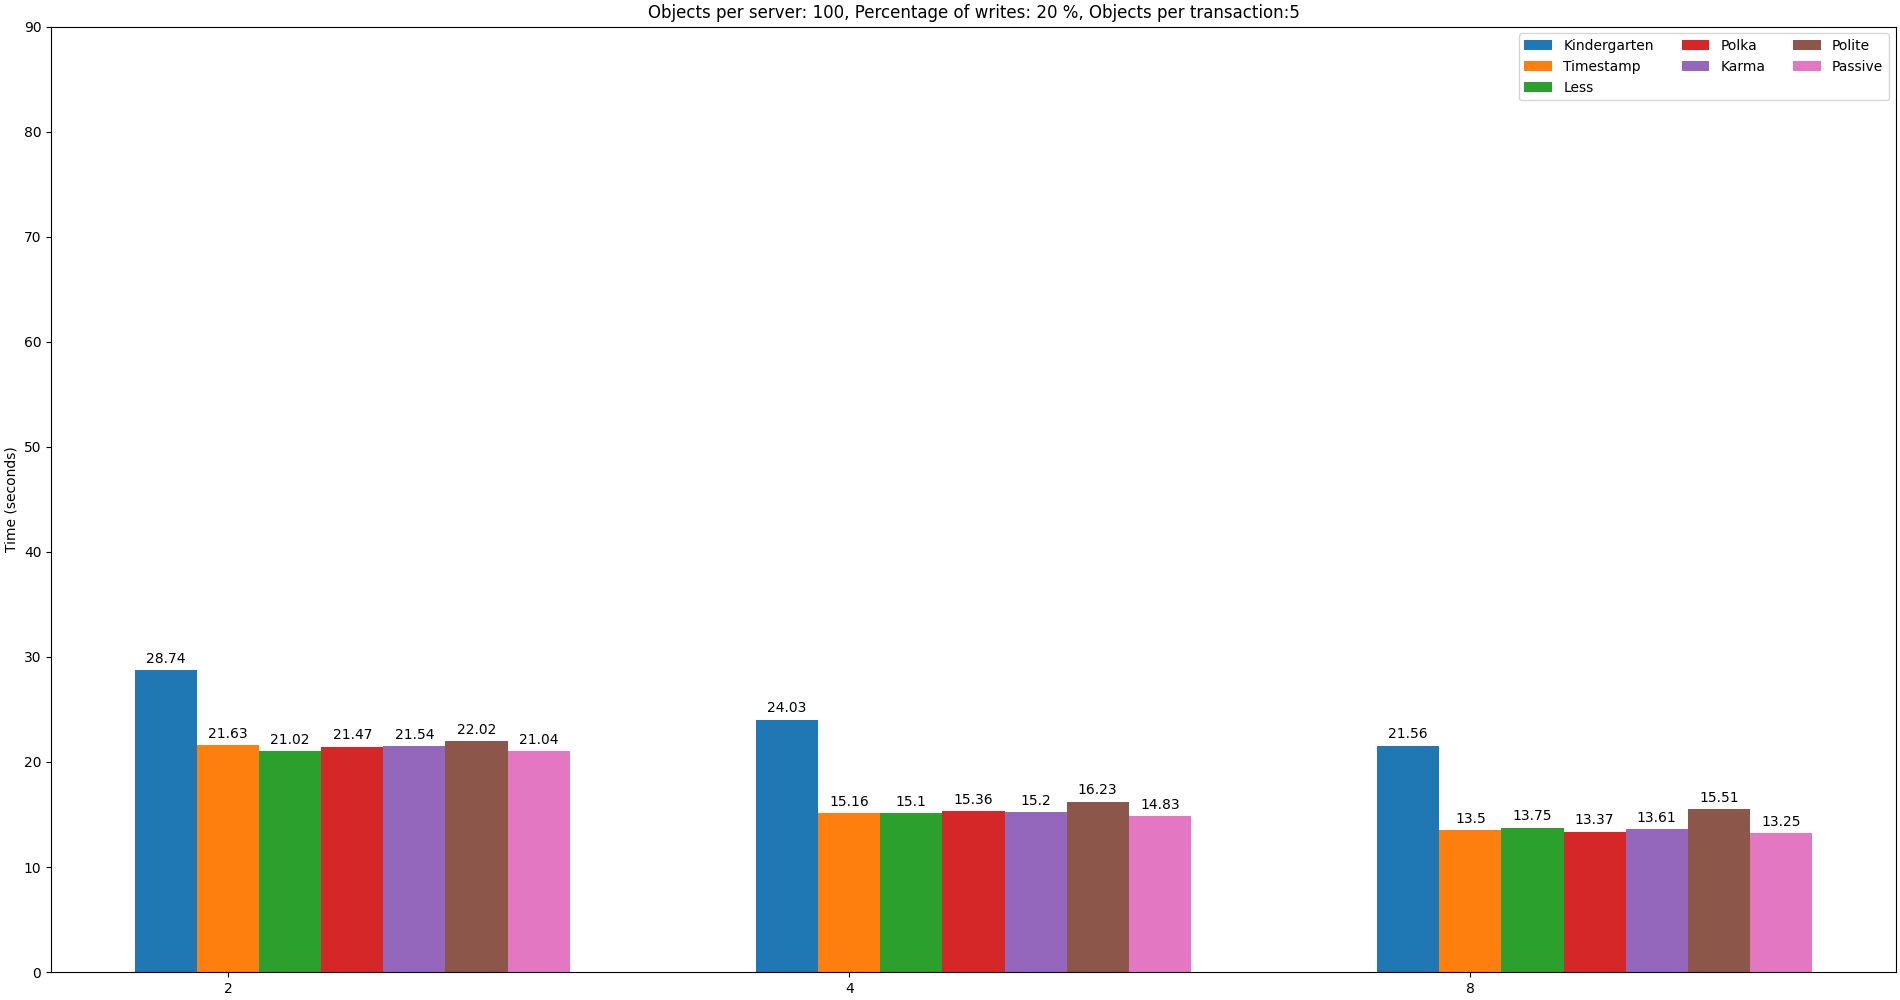
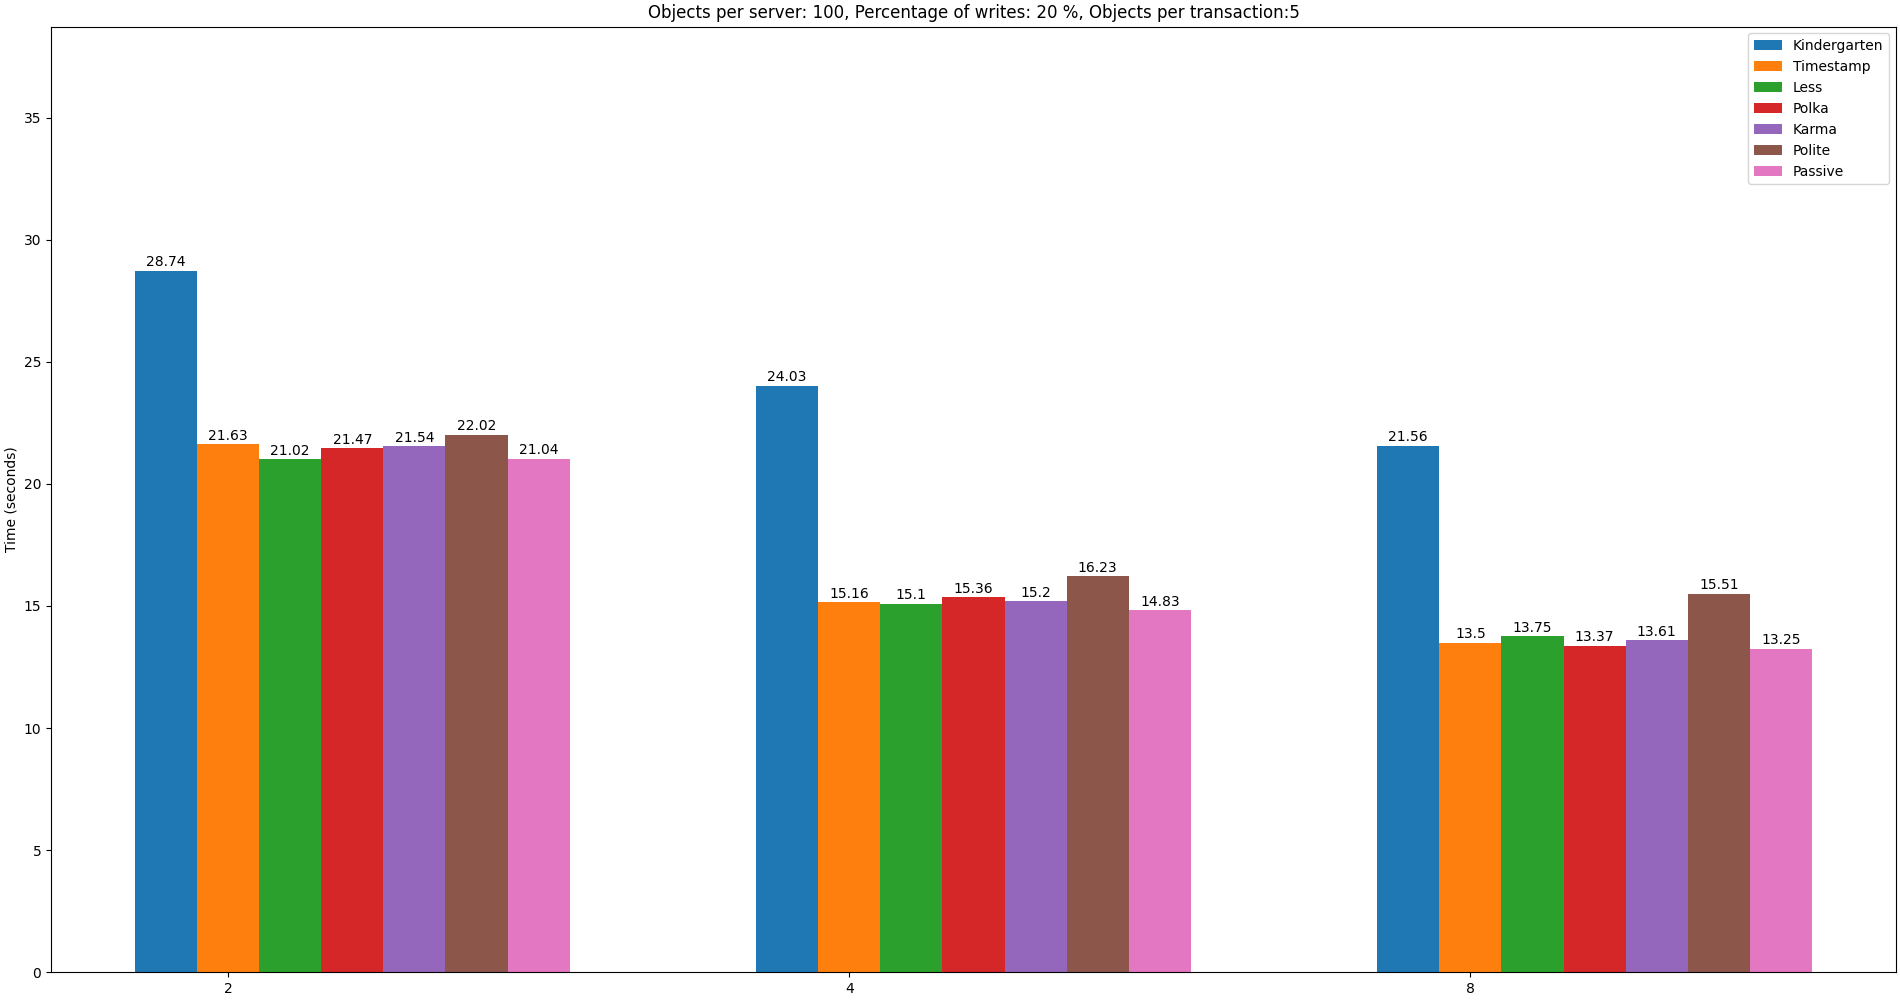
Adjusted the script to generate properly formatted plots.

diff --git a/plots/generate_plots.py b/plots/generate_plots.py
@@ -121,7 +121,11 @@ for wp in writes_percentage:
         for ops in objs_per_server:
             avgs = {}
             j = 0
+            max = 0
             for cm in contention_managers:
+                print(counts[i][j])
+                local_max = np.array(counts[i][j]).max()
+                max = local_max if local_max > max else max  
                 avgs[cm] = counts[i][j]
                 j+=1
 
@@ -134,15 +138,15 @@ for wp in writes_percentage:
             for attribute, measurement in avgs.items():
                 offset = width * multiplier
                 rects = ax.bar(x + offset, measurement, width, label=attribute)
-                ax.bar_label(rects, padding=3)
+                ax.bar_label(rects, padding=1)
                 multiplier += 1
 
             # Add some text for labels, title and custom x-axis tick labels, etc.
             ax.set_ylabel('Time (seconds)')
             ax.set_title(f"Objects per server: {ops}, Percentage of writes: {wp} %, Objects per transaction:{opt}")
             ax.set_xticks(x + width, number_of_clients)
-            ax.legend(loc='upper right', ncols=3)
-            ax.set_ylim(0, 90)
+            ax.legend(loc='upper right', ncols=1)
+            ax.set_ylim(0, max + 10)
 
             fig.set_figheight(10)
             fig.set_figwidth(19)
